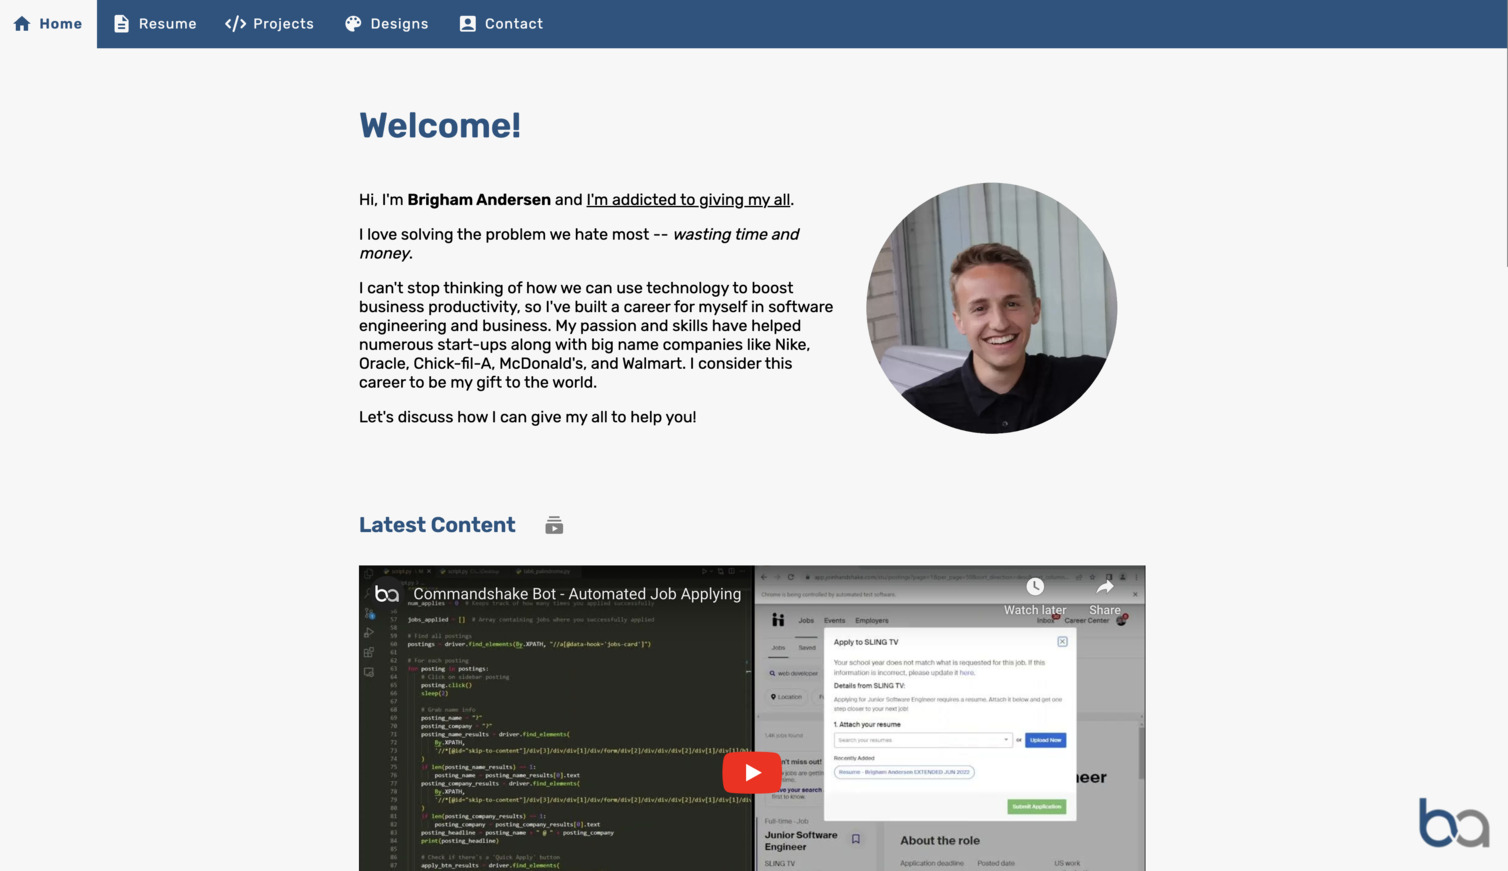
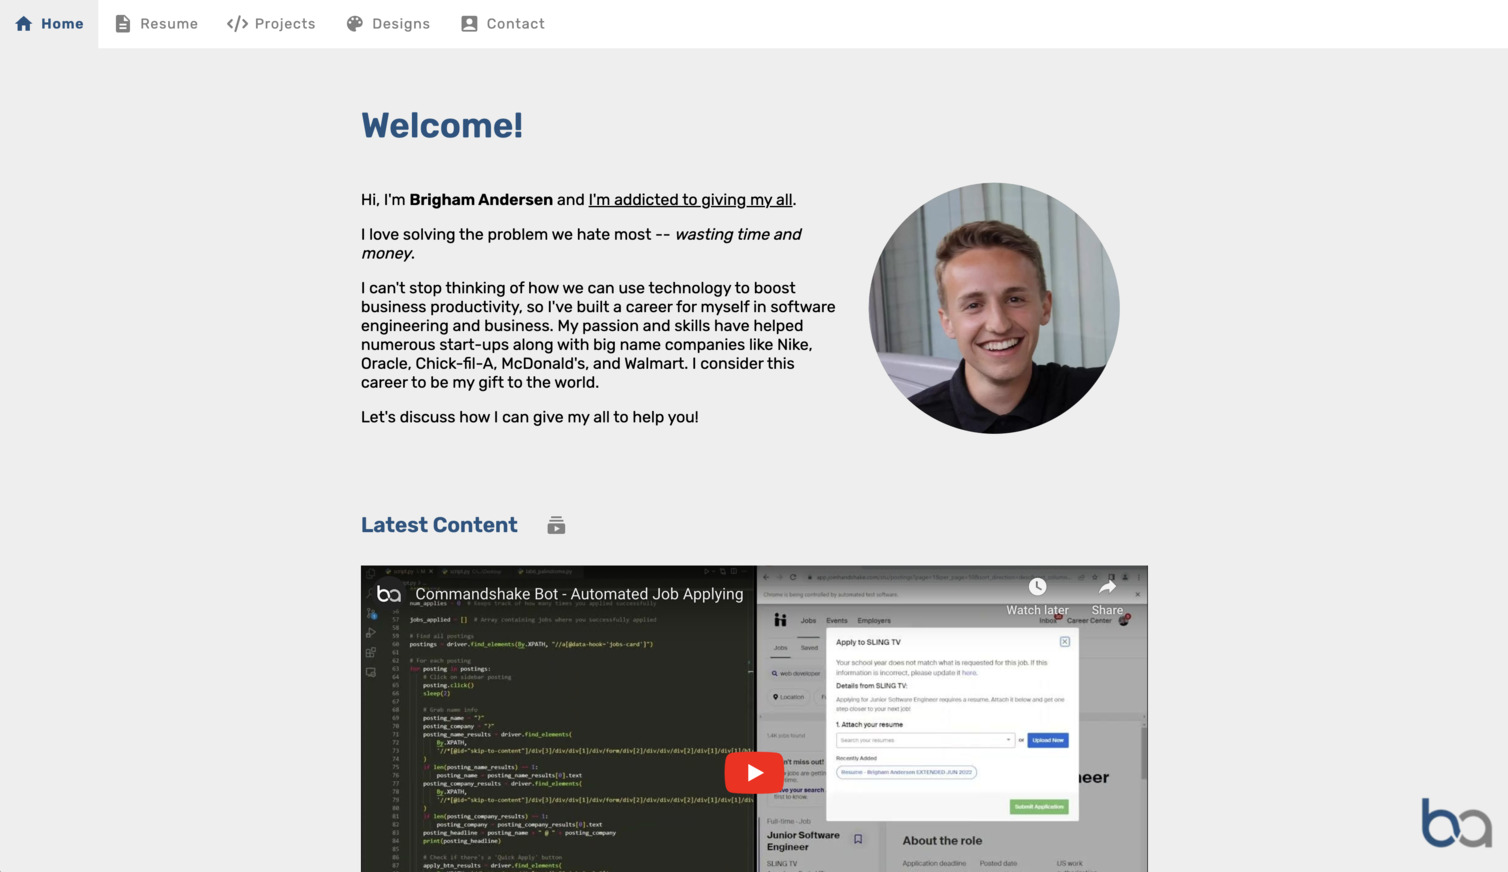
Update profile picture

diff --git a/index.html b/index.html
@@ -117,7 +117,11 @@
             </p>
             <p>Let's discuss how I can give my all to help you!</p>
           </div>
-          <img src="./assets/profile-pic.webp" alt="Me" class="profile-pic" />
+          <img
+            src="./assets/profile-picture.webp"
+            alt="Me"
+            class="profile-pic"
+          />
         </div>
       </section>
       <section class="latest-content-section">
